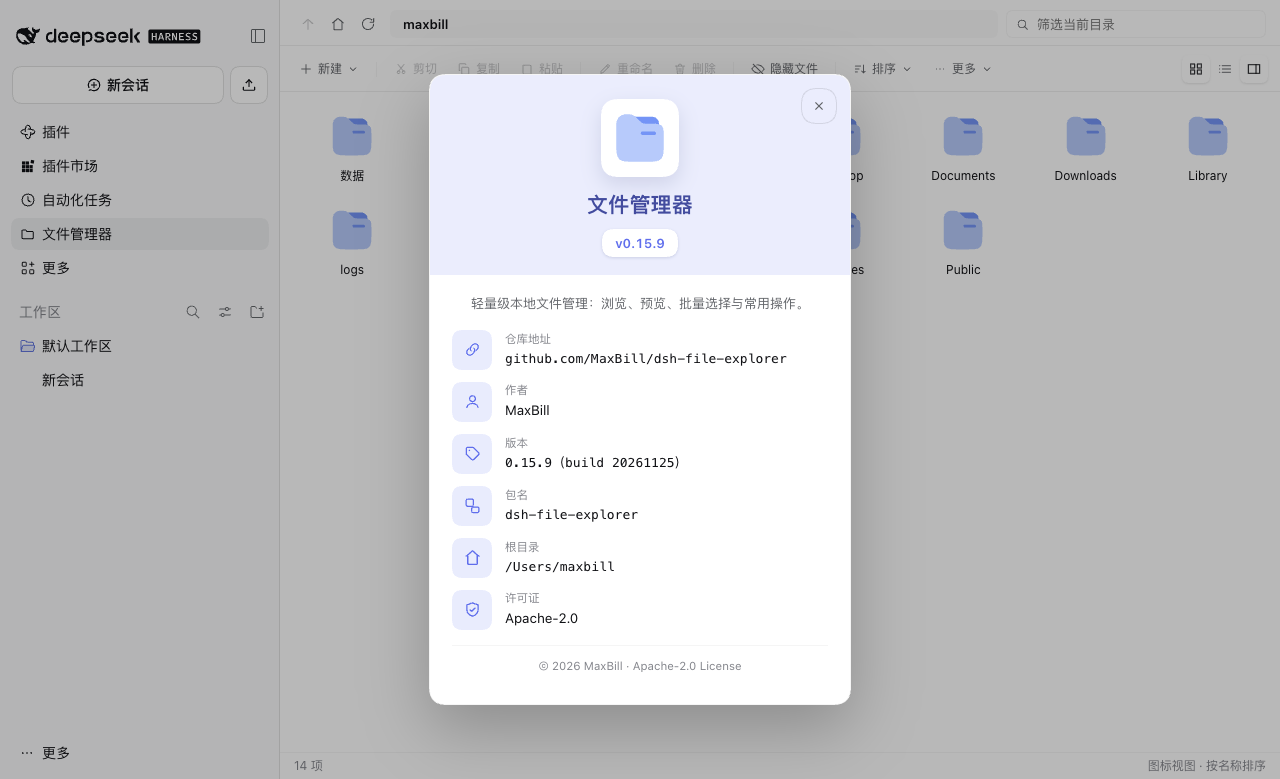
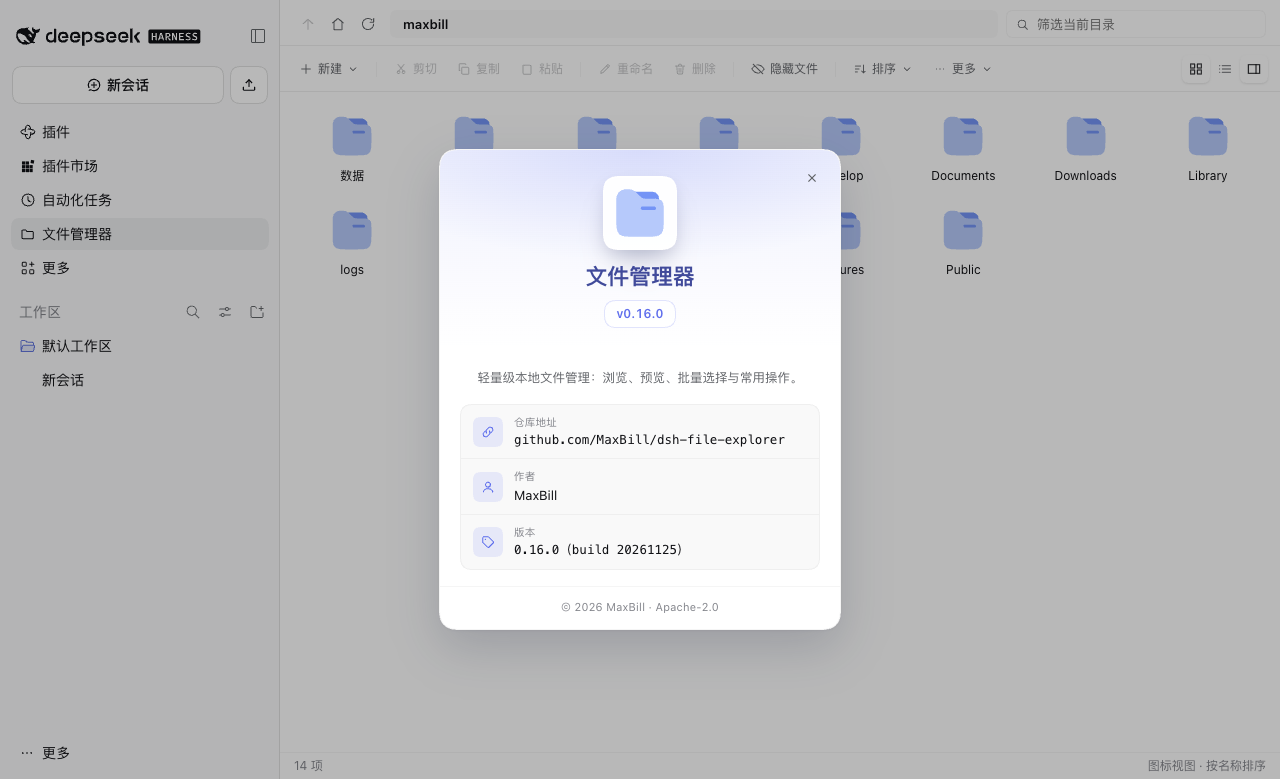
style: simplify and polish the About window
- drop the 包名 / 根目录 / 许可证 rows; three rows remain (repository, author,
  version with build date) and the licence lives in the copyright line
- the close control is a bare glyph again, no ring, with a quiet hover halo
- the header gets a layered tint (linear + radial) and a floating badge
- the rows are now one grouped card with hairline separators instead of
  free-floating lines
- the card fades in, the version pill is outlined rather than shadowed, and
  the title colour mixes the brand with the current label colour so it stays
  legible in either theme

Changed region(s): [[0.3125, 0.0924, 0.6875, 0.9551], [0.375, 0.5237, 0.5938, 0.7394]]

diff --git a/lib/client.js b/lib/client.js
@@ -284,68 +284,89 @@ window.__ModuleLoader__.load({
 .dfx-btn--danger:active:not(:disabled) { background: var(--dsw-alias-bg-danger-hover, #c5433f); filter: brightness(.92); }
 .dfx-btn:disabled { opacity: .5; cursor: default; }
 .dfx-about {
-  width: min(420px, calc(100vw - 40px)); padding: 0; gap: 0; overflow: hidden; border-radius: 20px;
+  width: min(400px, calc(100vw - 40px)); padding: 0; gap: 0; overflow: hidden; border-radius: 22px;
+  border: 1px solid var(--dsw-alias-border-l1, rgba(0, 0, 0, .08));
+  background: var(--dsw-alias-bg-layer-1, #fff);
+  box-shadow: 0 1px 2px rgba(16, 32, 64, .06), 0 18px 48px rgba(16, 32, 64, .18);
+  animation: dfx-about-in .18s cubic-bezier(.2, .8, .3, 1);
+}
+@keyframes dfx-about-in {
+  from { opacity: 0; transform: translateY(6px) scale(.985); }
+  to { opacity: 1; transform: none; }
 }
 .dfx-about-head {
-  position: relative; padding: 22px 22px 18px; text-align: center;
-  background: rgba(59, 108, 246, .11);
-  background: color-mix(in srgb, var(--dfx-brand) 12%, transparent);
+  position: relative; padding: 26px 22px 22px; text-align: center;
+  background:
+    linear-gradient(180deg, rgba(59, 108, 246, .10), rgba(59, 108, 246, 0)),
+    radial-gradient(120% 90% at 50% 0%, rgba(59, 108, 246, .14), transparent 62%);
+  background:
+    linear-gradient(180deg, color-mix(in srgb, var(--dfx-brand) 9%, transparent), transparent),
+    radial-gradient(120% 90% at 50% 0%, color-mix(in srgb, var(--dfx-brand) 16%, transparent), transparent 62%);
 }
 .dfx-about-close {
-  position: absolute; top: 13px; right: 13px; width: 36px; height: 36px; padding: 0;
-  display: grid; place-items: center; border-radius: 50%; cursor: pointer;
-  border: 1px solid var(--dsw-alias-border-l2, rgba(0, 0, 0, .18));
+  position: absolute; top: 14px; right: 14px; width: 28px; height: 28px; padding: 0;
+  display: grid; place-items: center; border: 0; border-radius: 8px; cursor: pointer;
   background: transparent; color: var(--dsw-alias-label-secondary, #5c5c5c);
   transition: background .12s ease, color .12s ease;
 }
 .dfx-about-close:hover {
-  background: var(--dsw-alias-bg-layer-3, rgba(0, 0, 0, .06));
+  background: rgba(127, 127, 127, .16);
   color: var(--dsw-alias-label-primary, #1b1b1b);
 }
 .dfx-about-badge {
-  width: 78px; height: 78px; margin: 2px auto 12px; display: grid; place-items: center;
-  border-radius: 20px; background: var(--dsw-alias-bg-layer-1, #fff);
-  box-shadow: 0 8px 20px rgba(20, 50, 110, .14);
+  width: 72px; height: 72px; margin: 0 auto 14px; display: grid; place-items: center; border-radius: 18px;
+  background: rgba(255, 255, 255, .96);
+  border: 1px solid rgba(255, 255, 255, .9);
+  box-shadow: 0 1px 0 rgba(255, 255, 255, .9) inset, 0 6px 14px rgba(24, 44, 92, .10), 0 18px 32px -12px rgba(24, 44, 92, .30);
 }
 .dfx-about-name {
-  margin: 0 0 10px; font-size: 21px; font-weight: 650; letter-spacing: .01em;
-  color: var(--dsw-alias-label-primary, #10233f);
-  color: color-mix(in srgb, var(--dfx-brand) 64%, var(--dsw-alias-label-primary, #10233f));
+  margin: 0 0 10px; font-size: 22px; font-weight: 680; line-height: 1.15; letter-spacing: -.01em;
+  color: #16327a;
+  color: color-mix(in srgb, var(--dfx-brand) 62%, var(--dsw-alias-label-primary, #10233f));
 }
 .dfx-about-version {
-  display: inline-flex; align-items: center; height: 28px; padding: 0 13px; border-radius: 999px;
-  font-size: 13px; font-weight: 600; font-variant-numeric: tabular-nums;
-  background: var(--dsw-alias-bg-layer-1, #fff); color: var(--dfx-brand);
-  box-shadow: 0 1px 3px rgba(20, 50, 110, .16);
+  display: inline-flex; align-items: center; height: 26px; padding: 0 11px; border-radius: 999px;
+  font-size: 12px; font-weight: 600; letter-spacing: .01em; font-variant-numeric: tabular-nums;
+  color: var(--dfx-brand);
+  background: rgba(255, 255, 255, .72);
+  background: color-mix(in srgb, var(--dsw-alias-bg-layer-1, #fff) 78%, transparent);
+  border: 1px solid rgba(59, 108, 246, .16);
+  border: 1px solid color-mix(in srgb, var(--dfx-brand) 18%, transparent);
 }
 .dfx-about-body {
-  display: flex; flex-direction: column; gap: 15px; padding: 18px 22px 14px;
-  background: var(--dsw-alias-bg-layer-1, #fff);
+  display: flex; flex-direction: column; gap: 16px; padding: 18px 20px 16px;
 }
 .dfx-about-blurb {
-  margin: 0; text-align: center; font-size: 13px; line-height: 1.65;
+  margin: 0; text-align: center; font-size: 12.5px; line-height: 1.6;
   color: var(--dsw-alias-label-secondary, #5c5c5c);
 }
-.dfx-about-rows { display: flex; flex-direction: column; gap: 12px; }
-.dfx-about-row { display: grid; grid-template-columns: 40px minmax(0, 1fr); gap: 13px; align-items: center; }
+.dfx-about-rows {
+  display: flex; flex-direction: column; overflow: hidden; border-radius: 14px;
+  background: rgba(127, 127, 127, .045);
+  border: 1px solid var(--dsw-alias-border-l1, rgba(0, 0, 0, .07));
+}
+.dfx-about-row {
+  display: grid; grid-template-columns: 30px minmax(0, 1fr); gap: 11px; align-items: center; padding: 10px 12px;
+}
+.dfx-about-row + .dfx-about-row { border-top: 1px solid var(--dsw-alias-border-l1, rgba(0, 0, 0, .06)); }
 .dfx-about-ico {
-  width: 40px; height: 40px; display: grid; place-items: center; border-radius: 12px;
+  width: 30px; height: 30px; display: grid; place-items: center; border-radius: 9px;
   background: rgba(59, 108, 246, .12);
-  background: color-mix(in srgb, var(--dfx-brand) 13%, transparent);
+  background: color-mix(in srgb, var(--dfx-brand) 12%, transparent);
   color: var(--dfx-brand);
 }
-.dfx-about-text { min-width: 0; display: flex; flex-direction: column; gap: 2px; }
-.dfx-about-label { font-size: 11.5px; color: var(--dsw-alias-label-tertiary, #8f8f8f); }
+.dfx-about-text { min-width: 0; display: flex; flex-direction: column; gap: 1px; }
+.dfx-about-label { font-size: 10.5px; letter-spacing: .02em; color: var(--dsw-alias-label-tertiary, #8f8f8f); }
 .dfx-about-value {
-  font-size: 13px; line-height: 1.45; color: var(--dsw-alias-label-primary, #1b1b1b);
+  font-size: 12.5px; line-height: 1.4; color: var(--dsw-alias-label-primary, #1b1b1b);
   word-break: break-all; user-select: text;
   font-family: ui-monospace, SFMono-Regular, "SF Mono", Menlo, monospace;
 }
-.dfx-about-value--text { font-family: inherit; font-size: 13.5px; }
+.dfx-about-value--text { font-family: inherit; font-size: 13px; }
 .dfx-about-foot {
-  padding: 12px 22px 16px; border-top: 1px solid var(--dsw-alias-border-l1, rgba(0, 0, 0, .08));
-  text-align: center; font-size: 11.5px; color: var(--dsw-alias-label-tertiary, #9a9a9a);
-  background: var(--dsw-alias-bg-layer-1, #fff);
+  padding: 12px 20px 14px; text-align: center; font-size: 11px; letter-spacing: .02em;
+  color: var(--dsw-alias-label-tertiary, #9a9a9a);
+  border-top: 1px solid var(--dsw-alias-border-l1, rgba(0, 0, 0, .06));
 }
 `;
 
@@ -753,9 +774,6 @@ window.__ModuleLoader__.load({
         { label: "仓库地址", glyph: "link", value: repoUrl },
         { label: "作者", glyph: "user", value: authorName, text: true },
         { label: "版本", glyph: "tag", value: version + build },
-        { label: "包名", glyph: "squares", value: meta.name || "dsh-file-explorer" },
-        { label: "根目录", glyph: "home", value: meta.root || "—" },
-        { label: "许可证", glyph: "shield", value: meta.license || "Apache-2.0", text: true },
       ];
       return h("div", {
         className: "dfx-overlay",
@@ -776,13 +794,13 @@ window.__ModuleLoader__.load({
             h("p", { className: "dfx-about-blurb" }, "轻量级本地文件管理：浏览、预览、批量选择与常用操作。"),
             h("div", { className: "dfx-about-rows" }, rows.map(function (row) {
               return h("div", { key: row.label, className: "dfx-about-row" },
-                h("span", { className: "dfx-about-ico" }, glyph(row.glyph, 19)),
+                h("span", { className: "dfx-about-ico" }, glyph(row.glyph, 16)),
                 h("div", { className: "dfx-about-text" },
                   h("span", { className: "dfx-about-label" }, row.label),
                   h("span", { className: "dfx-about-value" + (row.text ? " dfx-about-value--text" : "") }, row.value)));
-            })),
-            h("div", { className: "dfx-about-foot" },
-              "© " + new Date().getFullYear() + " " + authorName + " · " + (meta.license || "Apache-2.0") + " License"))));
+            }))),
+          h("div", { className: "dfx-about-foot" },
+            "© " + new Date().getFullYear() + " " + authorName + " · " + (meta.license || "Apache-2.0"))));
     }
 
     /**

diff --git a/README.md b/README.md
@@ -24,7 +24,7 @@ Repository: <https://github.com/MaxBill/dsh-file-explorer> · Developer: [MaxBil
 - **View modes** — the two icons at the far right of the toolbar switch **icons / list** (⌘1 icons, ⌘2 list, Ctrl on Windows). **Icons is the default**: the folder lays out as a grid. The list shows name, type, size and modified time in one row. The choice is remembered for the next session.
 - **Hidden files** — dotfiles are hidden by default; the 隐藏文件 button in the toolbar shows them.
 - **Status bar** — item count, selection size and clipboard on the left; the current view mode and sort key on the right.
-- **About** — 更多 → 关于 文件管理器… opens an About window with a tinted header (icon, name, version pill) over rows for the repository, author, version with build date, package name, browsing root and licence, all read from `package.json` so it cannot drift from the release.
+- **About** — 更多 → 关于 文件管理器… opens an About window with a tinted header (icon, name, version pill) over three rows (repository, author, version with build date) and a copyright line carrying the licence, all read from `package.json` so it cannot drift from the release.
 - **Preview** — text files up to 512 KB render as monospace text, images up to 8 MB render inline from a data URL, anything else shows its metadata. The preview icon at the far right of the toolbar collapses or restores the right-hand pane; collapsed, the list takes the full width.
 - **Details pane** — right-click "显示详情", or flip the right pane to 详情, to see name, type, size, location, created, modified and permissions. Folders have no preview, so selecting one shows its details (size reads as an item count).
 - **Quick toolbar** — **新建** (new folder / new file) first, then cut, copy, paste, rename and delete, then **排序** (name / size / modified) and **更多** (undo, select all, deselect all, invert selection, options) on the right. Buttons grey out when nothing is selected.

diff --git a/README.zh.md b/README.zh.md
@@ -24,7 +24,7 @@
 - **显示视图**：工具栏最右侧两个图标切换 **图标 / 列表**（`⌘1` 图标、`⌘2` 列表，Windows 上是 `Ctrl`）。**图标视图是默认**，文件夹以图标网格铺开；列表视图一行给全 **名称 / 类型 / 大小 / 修改时间**。选择会记住，下次打开还是上次的视图。
 - **隐藏文件开关**：默认隐藏 `.dotfile`，工具栏「隐藏文件」一键显示。
 - **状态栏**：左侧是条目数、已选数量与总大小、剪贴板内容；右侧显示当前视图与排序方式，开启隐藏文件时也会提示。
-- **关于**：工具栏「更多 → 关于 文件管理器…」打开关于窗口：浅色页头放图标、名称与版本胶囊，下面是仓库地址、作者、版本（含构建日期）、包名、根目录与许可证（信息直接读 `package.json`，不会和版本号脱节）。
+- **关于**：工具栏「更多 → 关于 文件管理器…」打开关于窗口：浅色页头放图标、名称与版本胶囊，下面三行是仓库地址、作者与版本（含构建日期），版权与许可署名在底部（信息直接读 `package.json`，不会和版本号脱节）。
 - **预览**：文本文件（≤ 512 KB）直接显示，图片（≤ 8 MB）以内联 data URL 显示，其余显示元信息。工具栏最右侧的预览图标可一键**收起 / 展开**右侧面板，收起后列表占满整宽。
 - **详情面板**：右键「显示详情」，或在右侧面板切到「详情」，查看 **名称 / 类型 / 大小 / 位置 / 创建时间 / 修改时间 / 权限**；文件夹没有预览，选中即自动显示详情（大小位置显示条目数）。
 - **快捷工具栏**：**新建**（文件夹 / 文件）、剪切、复制、粘贴、重命名、删除，然后是 **排序**（名称 / 大小 / 修改时间）与 **更多**（撤销、全部选择、全部取消、反向选择、选项）。未选中条目时相关按钮自动置灰。
